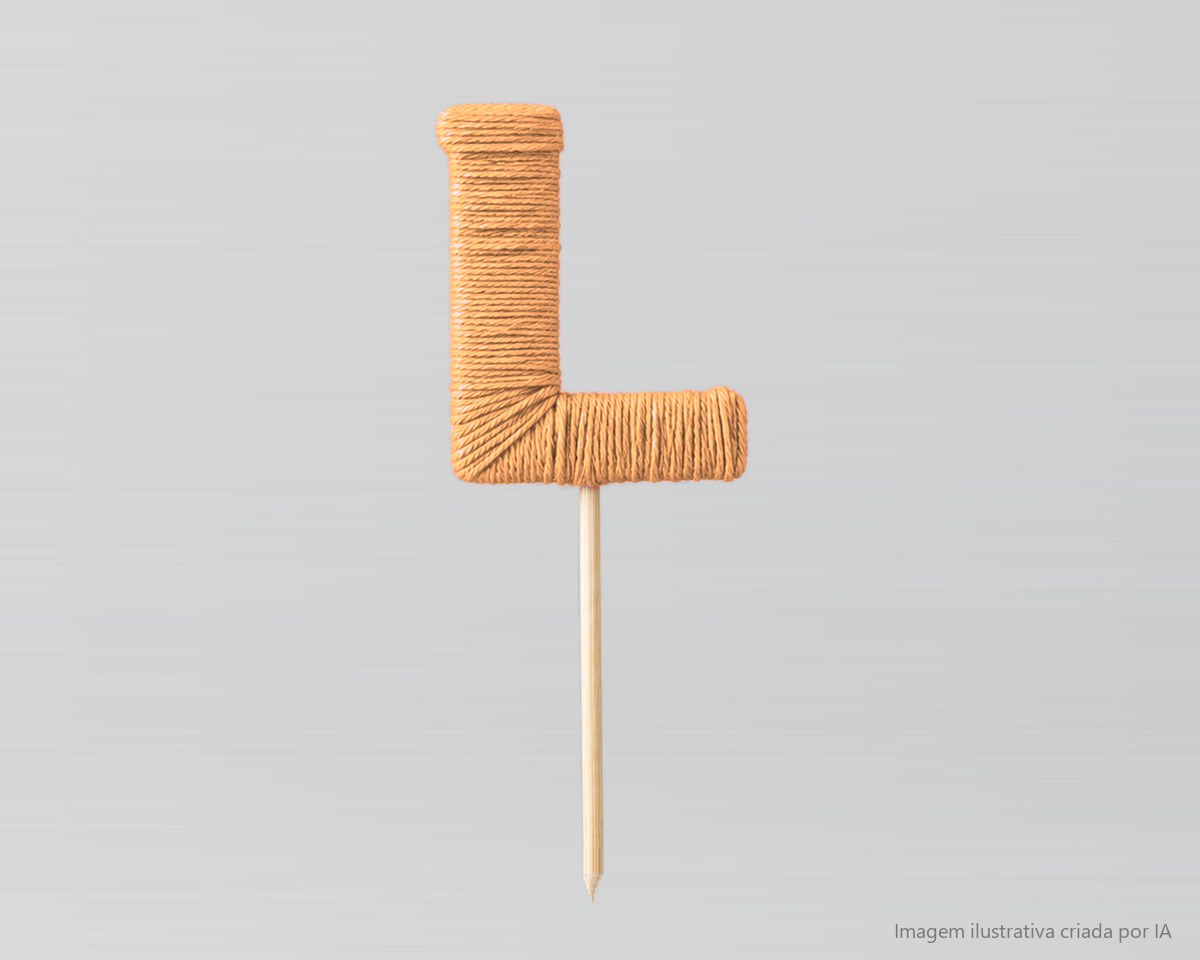
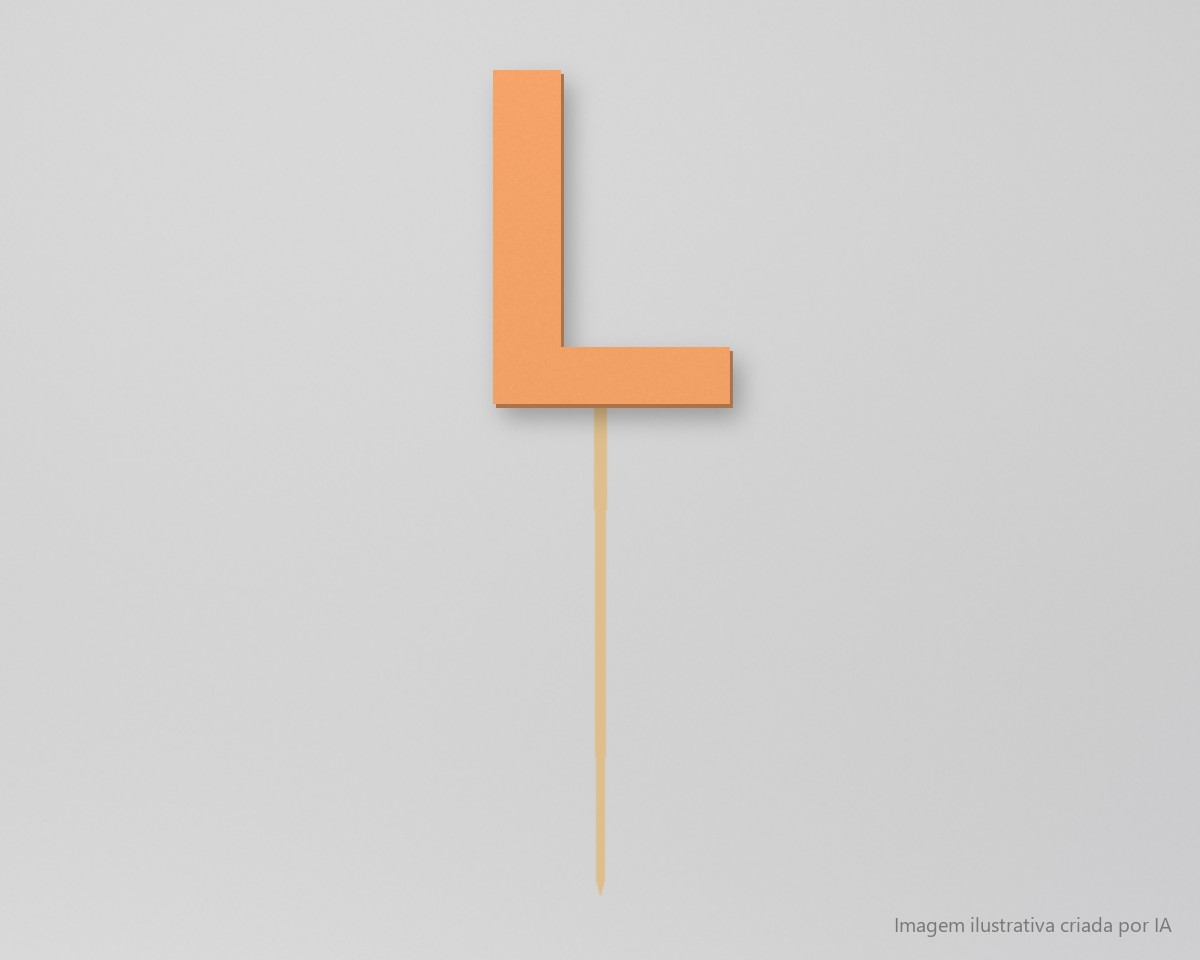
Topo de bolo: numero e letra simples (papel colorido, sem linha), fotos novas; Toppers: novo anuncio Festa Junina

Changed region(s): [[0.3392, 0.0625, 0.6475, 0.9375], [0.74, 0.9375, 0.9558, 1.0]]

diff --git a/index.html b/index.html
@@ -877,9 +877,9 @@
             <label for="p-topo-campo" id="p-topo-campo-rot"></label>
             <input id="p-topo-campo" type="text" autocomplete="off">
           </div>
-          <!-- Idade e letra com linha: a cor da linha, nas mesmas cores das caixas -->
+          <!-- Número, letra e pompom: a cor da peça, nas mesmas cores das caixas -->
           <div id="p-topo-cor-wrap" hidden>
-            <h2 class="pd-h">Escolha a cor da linha</h2>
+            <h2 class="pd-h">Escolha a cor</h2>
             <div class="pd-cores" id="p-topo-cores"></div>
             <p class="small pd-cor-nota" id="p-topo-cor-nota"></p>
           </div>
@@ -1027,7 +1027,7 @@
       <section class="sens-box" style="background:var(--dourado)">
         <h2>Como pedir</h2>
         <ol>
-          <li>Escolha o que você quer: caixas, peças para montar o topo de bolo, toppers (de festa, coroa, cowboy, pirata, gatinho, coelhinho, formatura ou Natal) ou o varal de bandeirinhas.</li>
+          <li>Escolha o que você quer: caixas, peças para montar o topo de bolo, toppers (de festa, coroa, cowboy, pirata, gatinho, coelhinho, festa junina, formatura ou Natal) ou o varal de bandeirinhas.</li>
           <li>Nas caixas e nos toppers, escolha o pacote de 12, 24 ou 36. No varal, escolha o formato, a frase e a cor. Finalize o pedido pelo carrinho, como nos kits.</li>
           <li>Depois do pedido e pagamento, mande pelo WhatsApp uma foto do rostinho, de frente e com boa luz, e conte quais opções do site você escolheu. Pode ser foto de celular ou da escola.</li>
           <li>A arte é criada depois do pagamento e enviada para você aprovar antes de imprimirmos.</li>
@@ -1338,7 +1338,7 @@ const FAIXAS = [
    ilustração (veja fotos/LEIA-ME.txt). Enquanto o arquivo não existir, o site mostra a ilustração. */
 /* Versão das fotos: quando trocar uma foto, mude este número para os navegadores baixarem a nova na hora,
    em vez de mostrarem a antiga que ficou guardada */
-const FOTOS_VERSAO = '2026-10-21c';
+const FOTOS_VERSAO = '2026-10-23a';
 const FOTO = {
   topo:    `fotos/topo.jpg?v=${FOTOS_VERSAO}`,
   historia:`fotos/historia.jpg?v=${FOTOS_VERSAO}`,
@@ -1635,6 +1635,14 @@ const PRODUTOS = [
     selos:['Para festas de piratas','Arte para aprovar antes de imprimir','Frente e verso'],
     itens:['Toppers com o rostinho da criança e chapéu de pirata','Rostinho com cerca de 3 cm de altura, com contorno branco','Impresso frente e verso: o rostinho aparece dos dois lados, para quem olhar de qualquer lado da mesa','Palitos de madeira','Embalagem Dambrinhos com 12 toppers'],
     opcoes:pacotes(3.99,'toppers') },
+  /* Festa Junina: chapéu de palha e trancinhas (criança fictícia, criada por IA) */
+  { id:'afetiva-junina', criacao:'afetiva', versao:'afetiva', grupo:'toppers', unidade:'topper', plural:'toppers', nome:'Festa Junina', cod:'AF-J',
+    fotos:[`fotos/topper-festa-junina.jpg?v=${FOTOS_VERSAO}`],
+    embalagem:'Embalagem Dambrinhos com 12 toppers', resumo:'O rostinho da criança com chapéu de palha e trancinhas, para o arraiá.',
+    descricao:'O rostinho da criança com chapéu de palha, sardinhas e trancinhas de laço, para a festa junina da escola, o arraiá da família ou uma festa caipira. Para meninos, o chapéu vai sem as trancinhas. Você manda a foto que tem, de celular ou da escola: a gente recorta o rostinho, cuida das cores e coloca o chapéu.',
+    selos:['Para o arraiá','Arte para aprovar antes de imprimir','Frente e verso'],
+    itens:['Toppers com o rostinho da criança e chapéu de palha (com trancinhas, para meninas)','Rostinho com cerca de 3 cm de altura, com contorno branco','Impresso frente e verso: o rostinho aparece dos dois lados, para quem olhar de qualquer lado da mesa','Palitos de madeira','Embalagem Dambrinhos com 12 toppers'],
+    opcoes:pacotes(3.99,'toppers') },
   /* Gatinho: o cliente escolhe a cor do arco e a foto troca (fotos/topper-gatinho-<cor>.jpg; criança fictícia, criada por IA) */
   { id:'afetiva-gatinho', criacao:'afetiva', versao:'afetiva', grupo:'toppers', unidade:'topper', plural:'toppers', nome:'Gatinho', cod:'AF-G',
     corArco:'topper-gatinho', fotos:[`fotos/topper-gatinho-amarelo.jpg?v=${FOTOS_VERSAO}`],
@@ -1658,21 +1666,21 @@ const PRODUTOS = [
     seguranca:'As hastes são de bambu e têm ponta: tire o topo de bolo antes de servir o bolo e guarde longe das crianças pequenas. É só para decorar.',
     opcoes:[{ nome:'1 bandeirola', n:'001', preco:34.99 }] })),
   { id:'topo-idade', criacao:'afetiva', versao:'afetiva', grupo:'topo-bolo', porUnidade:true, escolha:'idade',
-    unidade:'peça', plural:'peças', nome:'Idade com linha', cod:'TB-ID',
+    unidade:'peça', plural:'peças', nome:'Número da idade', cod:'TB-ID',
     fotos:[`fotos/topo-bolo-idade-1.jpg?v=${FOTOS_VERSAO}`],
-    embalagem:'Embalagem Dambrinhos', resumo:'O número da idade enrolado à mão com linha colorida, num palito de bambu.',
-    descricao:'O número da idade que a criança vai completar, enrolado à mão com linha de algodão colorida, volta por volta, e preso num palito de bambu. Uma peça artesanal, que dá textura e cor ao topo do bolo. Combine com a bandeirola para montar o seu topo de bolo.',
-    selos:['Enrolado à mão','Cor da linha à escolha','Monte o seu topo de bolo'],
-    itens:['Número da idade enrolado com linha, na cor que você escolher: amarelo, azul, laranja, rosa, verde ou vermelho','1 palito de bambu','Embalagem Dambrinhos'],
+    embalagem:'Embalagem Dambrinhos', resumo:'O número da idade em papel colorido, num palito de bambu.',
+    descricao:'O número da idade que a criança vai completar, recortado em papel encorpado na cor que você escolher e preso num palito de bambu. Combine com a bandeirola e a letra do nome para montar o seu topo de bolo.',
+    selos:['Na cor da festa','Papel encorpado','Monte o seu topo de bolo'],
+    itens:['Número da idade em papel encorpado, na cor que você escolher: amarelo, azul, laranja, rosa, verde ou vermelho','1 palito de bambu','Embalagem Dambrinhos'],
     seguranca:'O palito é de bambu e tem ponta: tire o topo de bolo antes de servir o bolo para as crianças pequenas. É só para decorar.',
     opcoes:[{ nome:'1 número', n:'001', preco:24.99 }] },
   { id:'topo-letra', criacao:'afetiva', versao:'afetiva', grupo:'topo-bolo', porUnidade:true, escolha:'letra',
-    unidade:'peça', plural:'peças', nome:'Letra do nome com linha', cod:'TB-LT',
+    unidade:'peça', plural:'peças', nome:'Letra do nome', cod:'TB-LT',
     fotos:[`fotos/topo-bolo-letra-1.jpg?v=${FOTOS_VERSAO}`],
-    embalagem:'Embalagem Dambrinhos', resumo:'A letra inicial do nome da criança enrolada à mão com linha colorida, num palito de bambu.',
-    descricao:'A letra inicial do nome da criança, enrolada à mão com linha de algodão colorida, volta por volta, e presa num palito de bambu. Combina com a idade de linha e com a bandeirola para montar o seu topo de bolo.',
-    selos:['Enrolada à mão','Cor da linha à escolha','Monte o seu topo de bolo'],
-    itens:['Letra inicial do nome enrolada com linha, na cor que você escolher: amarelo, azul, laranja, rosa, verde ou vermelho','1 palito de bambu','Embalagem Dambrinhos'],
+    embalagem:'Embalagem Dambrinhos', resumo:'A letra inicial do nome da criança em papel colorido, num palito de bambu.',
+    descricao:'A letra inicial do nome da criança, recortada em papel encorpado na cor que você escolher e presa num palito de bambu. Combina com o número da idade e com a bandeirola para montar o seu topo de bolo.',
+    selos:['Na cor da festa','Papel encorpado','Monte o seu topo de bolo'],
+    itens:['Letra inicial do nome em papel encorpado, na cor que você escolher: amarelo, azul, laranja, rosa, verde ou vermelho','1 palito de bambu','Embalagem Dambrinhos'],
     seguranca:'O palito é de bambu e tem ponta: tire o topo de bolo antes de servir o bolo para as crianças pequenas. É só para decorar.',
     opcoes:[{ nome:'1 letra', n:'001', preco:24.99 }] },
   { id:'topo-pompom', criacao:'afetiva', versao:'afetiva', grupo:'topo-bolo', porUnidade:true, desenho:'pompom', escolha:'pompom',
@@ -2279,7 +2287,7 @@ function artVaral(p, v){
     <path d="M4 ${y1.toFixed(1)} Q100 ${(yAt(100)+ (yAt(100)-y1)).toFixed(1)} 196 ${y2.toFixed(1)}" fill="none" stroke="#C9A96E" stroke-width="1"/>
     ${out}</svg>`;
 }
-/* Peças com linha (idade e letra): o cliente escolhe a cor da linha, nas mesmas cores das caixas */
+/* Número e letra (papel colorido): o cliente escolhe a cor, nas mesmas cores das caixas */
 const comCorTopo = p => ['idade','letra','pompom'].includes(p.escolha);
 /* Foto da peça na cor escolhida: fotos/topo-bolo-<idade|letra>-<cor>.jpg. Só é baixada quando o cliente clica na cor;
    enquanto não existir, aparece a foto padrão da peça. */
@@ -2287,7 +2295,7 @@ const fotoCorTopo = (p, cor) => `fotos/topo-bolo-${p.escolha}-${cor}.jpg?v=${FOT
 /* Idade com linha: o número desenhado com traços de linha enrolada, num palito */
 function artIdade(p){
   const n = (sel && sel.p===p && sel.topo && sel.topo.texto) || '5';
-  return `<svg class="art" viewBox="0 0 200 160" role="img" aria-label="Ilustração da idade com linha" preserveAspectRatio="xMidYMid meet">
+  return `<svg class="art" viewBox="0 0 200 160" role="img" aria-label="Ilustração do número da idade" preserveAspectRatio="xMidYMid meet">
     <defs><pattern id="linha-${p.id}" width="6" height="6" patternUnits="userSpaceOnUse" patternTransform="rotate(80)"><rect width="6" height="6" fill="#6FCFC0"/><rect width="2" height="6" fill="#4FB3A5"/></pattern></defs>
     <rect width="200" height="160" fill="#EFEFEF"/>
     <rect x="98" y="104" width="4" height="54" fill="#D9B98C"/>
@@ -2792,9 +2800,9 @@ function renderProduto(){
     $('p-topo-campo').placeholder = nomeCampo ? 'Ex.: Luiza' : letra ? 'Ex.: L' : 'Ex.: 5';
     $('p-topo-cor-wrap').hidden = !comCorTopo(p);
     if (comCorTopo(p)){
-      $('p-topo-cor-wrap').querySelector('h2').textContent = pp ? 'Escolha a cor do pompom' : 'Escolha a cor da linha';
+      $('p-topo-cor-wrap').querySelector('h2').textContent = pp ? 'Escolha a cor do pompom' : 'Escolha a cor';
       $('p-topo-cores').innerHTML = CORES_CAIXA.map(c=>`<button type="button" class="pd-cor" data-topo-cor="${c.id}" aria-pressed="${tp.cor===c.id}"><svg viewBox="0 0 40 40" aria-hidden="true"><rect width="40" height="40" fill="#fff"/>${[6,12,18,24,30].map(y=>`<path d="M4 ${y} H36" stroke="${c.hex}" stroke-width="5.5" stroke-linecap="round"/>`).join('')}</svg><span>${esc(c.nome)}</span></button>`).join('');
-      $('p-topo-cor-nota').textContent = (pp ? 'Cor: ' : 'Cor da linha: ') + corDe(tp.cor).nome + (fotosOk.has(fotoCorTopo(p, tp.cor)) ? '.' : '. A foto mostra um exemplo de cor.');
+      $('p-topo-cor-nota').textContent = 'Cor: ' + corDe(tp.cor).nome + (fotosOk.has(fotoCorTopo(p, tp.cor)) ? '.' : '. A foto mostra um exemplo de cor.');
     }
   }
   if (p.corArco){
@@ -2898,7 +2906,7 @@ $('add').onclick = ()=>{
 /* Carrinho */
 function atualizarBadge(){ const n=carrinho.reduce((s,i)=>s+i.qtd,0); $('badge').textContent=n; $('badge').hidden=n===0; }
 function itemDet(i){ const p = prod(i.pid), o = opcaoDe(p, i.opt, i.kits);
-  if (i.topo) return ['Monte o seu topo de bolo', ...(i.topo.cor ? [`${p.escolha==='pompom' ? 'Cor' : 'Cor da linha'}: ${corDe(i.topo.cor).nome}`] : []), ...(p.escolha==='pompom' ? [] : [p.escolha==='idade' ? `Idade: ${i.topo.texto}` : p.escolha==='letra' ? `Letra: ${i.topo.texto}` : `Escrito: “${i.topo.frase==='nome' ? i.topo.texto : 'Parabéns'}”`])];
+  if (i.topo) return ['Monte o seu topo de bolo', ...(i.topo.cor ? [`Cor: ${corDe(i.topo.cor).nome}`] : []), ...(p.escolha==='pompom' ? [] : [p.escolha==='idade' ? `Idade: ${i.topo.texto}` : p.escolha==='letra' ? `Letra: ${i.topo.texto}` : `Escrito: “${i.topo.frase==='nome' ? i.topo.texto : 'Parabéns'}”`])];
   if (i.varal){ const n = bandeirinhasVaral(i.varal);
     return [criacaoDe(p).titulo, `Frase: “${textoVaral(i.varal)}”`, `Cor: ${corVaralTxt(i.varal.cor)}`, `${n} bandeirinhas · ${brl(VARAL.preco)} por bandeirinha`]; }
   return [criacaoDe(p).titulo, i.sens ? 'Versão sensorial' : null, i.fundo ? `Fundo: ${nomeFundo(i.fundo)}` : null, i.cores ? `${i.cores.length>1?'Cores':'Cor'}: ${coresTxt(i.cores, o.n)}` : null, i.arco ? `Cor do arco: ${corDe(i.arco).nome}` : null, p.porUnidade ? null : `${o.nome} · ${brl(porKit(o))} por ${unidadeDe(p)}`, i.msg ? `Cartão: “${i.msg}”` : null].filter(Boolean); }
